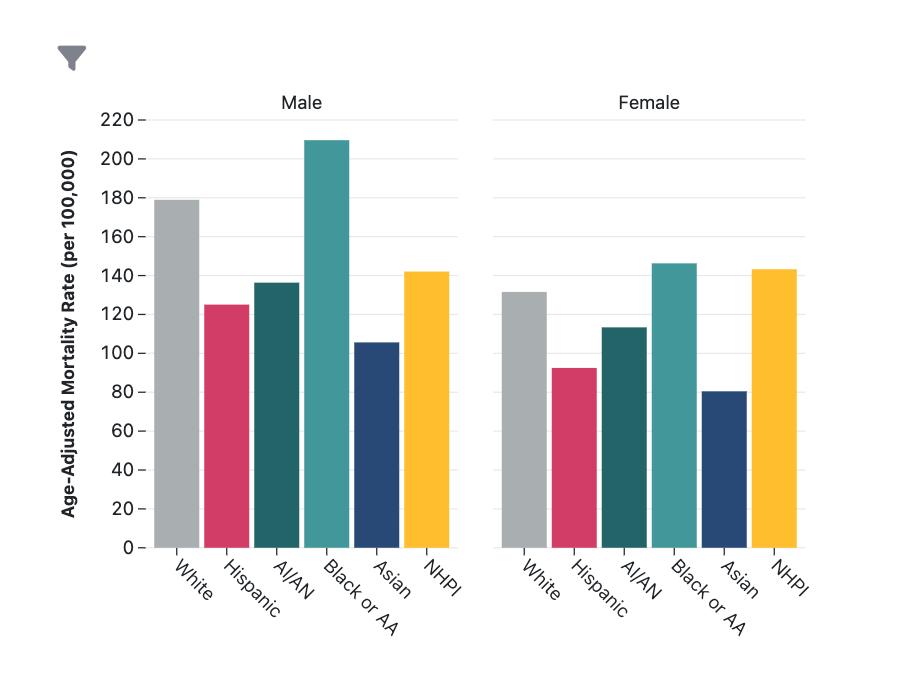
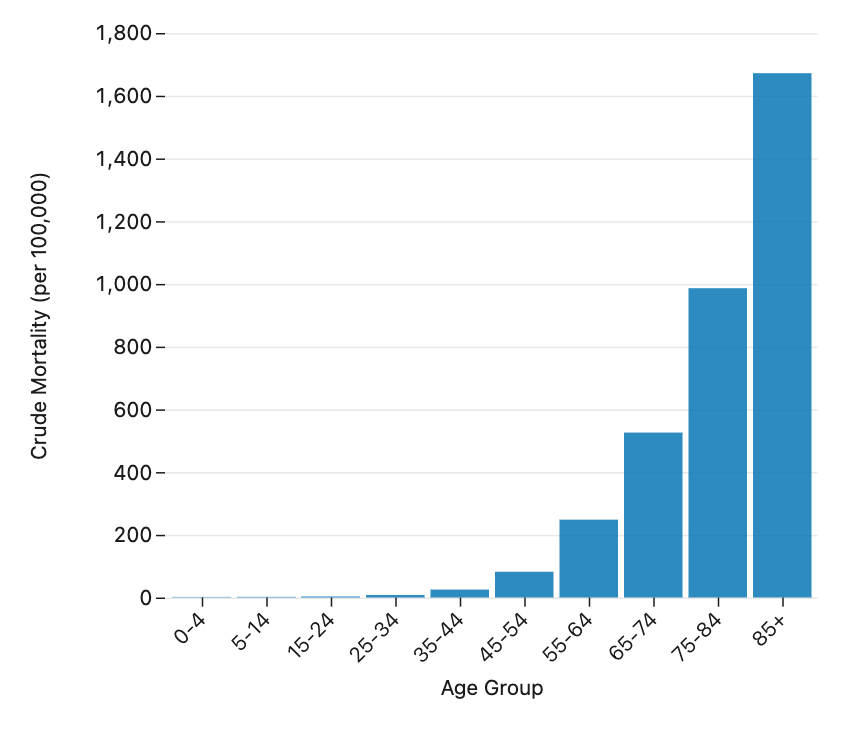
Changed screenshots on homepage

diff --git a/src/pages/index.html b/src/pages/index.html
@@ -88,7 +88,7 @@
           <li class="nci-card desktop:grid-col-4">
             <a href="./characteristics/" aria-label="County Characteristics Tool">
               <picture class="nci-card__image">
-                <img src="/images/card_quantile.png" alt="County Characteristics Tool Image" />
+                <img src="/images/card_county-characterstics.png" alt="County Characteristics Tool Image" />
               </picture>
               <div class="nci-card__body">
                 <span class="nci-card__title">County Characteristics Tool</span>